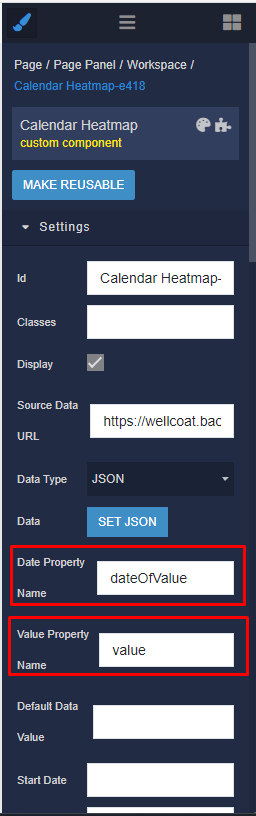
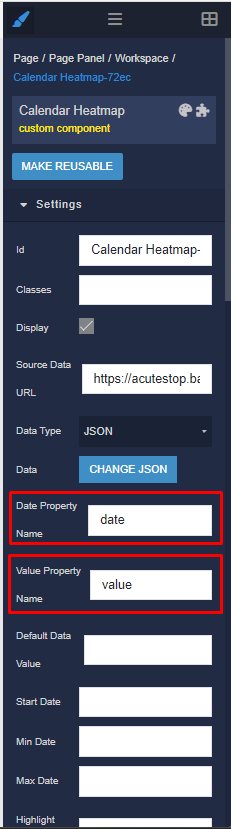
MARKET-2232 [Calendar Heatmap] Add the example data link to the Readme Usage. (#782)
* added data source example url to README.md

* updated imaged where is Date/Value Property Name

diff --git a/components/bl-calendar-heatmap/README.md b/components/bl-calendar-heatmap/README.md
@@ -148,7 +148,7 @@ Addition  calendar data:
 
     ![](./example-images/added-componet-on-page.png)
 
-2. Set the data source URL in format JSON, CSV, TSV, and you need select appropriate `Data Type`. Or set JSON in `Data` by UI settings, Logic handler or Data binding.
+2. Set the data source URL in format JSON, CSV, TSV [Example URL](https://acutestop.backendless.app/api/files/DEMO_Files/Calendar_Heatmap/data.json), and you need select appropriate `Data Type`. Or set JSON in `Data` by UI settings, Logic handler or Data binding.
 
     ![](./example-images/dataset.png)
 
